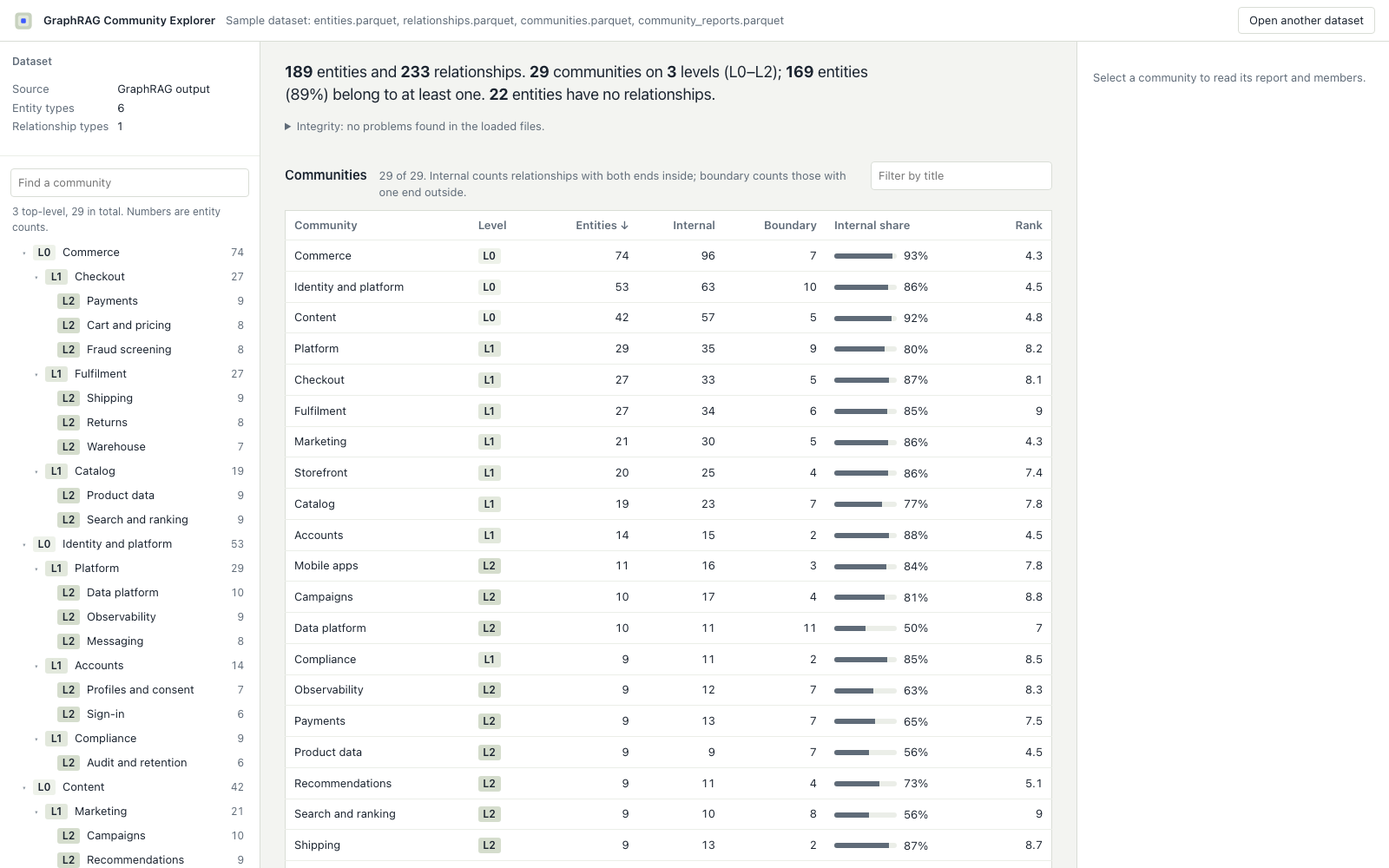
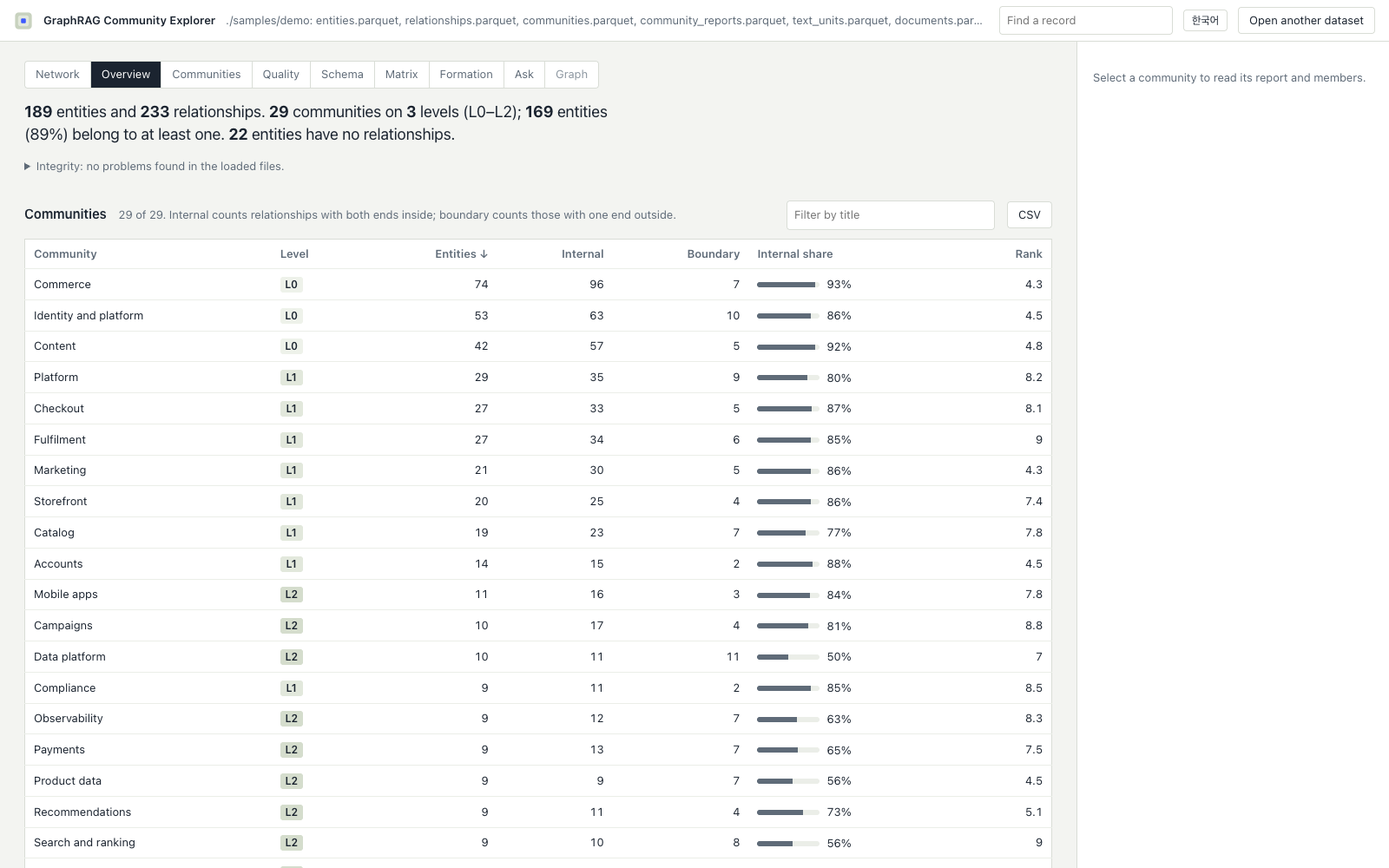
docs: README 를 질문 탭까지 포함한 현재 화면으로 갱신한다
캡처 여섯 장을 지금 빌드에서 다시 찍었다. 스키마·전체 그래프·질문·근거·개요·
커뮤니티 순이며, 질문 두 장은 표본 색인에 embed_index 로 만든 사이드카를 붙여
실제 Local 검색을 돌린 화면이다. 사이드카는 3MB 라 저장소에 넣지 않았다.

README 가 사실과 어긋나던 곳을 고쳤다. 앱은 Network 가 아니라 Schema 로 열리고,
질문 탭·임베딩 사이드카·제공자 설정은 아예 적혀 있지 않았다. 브라우저에서
Leiden 을 돌리는 일은 이미 형성 과정 화면이 하므로 로드맵의 범위 밖 항목에서 뺐다.

Claude-Session: https://claude.ai/code/session_013XUVMGcnLhDkgM8zBvsfqY

diff --git a/README.md b/README.md
@@ -1,19 +1,27 @@
 # GraphRAG Community Explorer
 
 Community-first explorer for [Microsoft GraphRAG](https://github.com/microsoft/graphrag) outputs.
-Open the Parquet files GraphRAG writes, read the community hierarchy and reports first, then descend
-into the entities and relationships inside each community. Everything runs in your browser; no file
-is uploaded anywhere.
+Open the Parquet files GraphRAG writes, read the schema and the community hierarchy first, then
+descend into the entities and relationships inside each community, and ask a question whose answer
+links back to the records it used. Browsing runs entirely in your browser; no file is uploaded
+anywhere. Asking a question is the one exception, and the app says so on the screen where it happens.
 
-Status: 0.1 alpha. Loader, overview, hierarchy tree, community table, report inspector, integrity
-checks, community graph, community map, quality metrics, partition comparison and source-text
-evidence are in place; see [docs/ROADMAP.md](docs/ROADMAP.md) for what comes next.
+Status: 0.2, alpha. Loader, schema view, network view, community hierarchy and map, report
+inspector, integrity checks, quality metrics, partition comparison, source-text evidence and the
+Ask tab (local and global search against your own provider) are in place; see
+[docs/ROADMAP.md](docs/ROADMAP.md) for what comes next.
 
-![Overview of the sample dataset: hierarchy tree, summary sentence, community table](docs/screenshots/overview-sample.png)
+![The schema of the sample index: one node per entity type, one arrow per relationship that occurs between two types, with the Parquet tables and their key columns underneath](docs/screenshots/schema-sample.png)
 
-![Graph of one community: entities colored by type inside the community container, a selected node with its incoming and outgoing links](docs/screenshots/graph-sample.png)
+![The whole sample index as one network with community clouds around the members, every cloud named, and the entity types and communities listed above the canvas](docs/screenshots/network-sample.png)
 
-![Community map: nested containers three levels deep, opened down to the entities of one topic, with aggregate links between groups](docs/screenshots/map-sample.png)
+![Ask tab: a question about what a queue's removal would affect, answered with inline citations back to entities, relationships, reports and claims](docs/screenshots/ask-sample.png)
+
+![The same answer read backwards: the cited records outlined in red in the evidence graph, the picked record open beside it with the text that went into the prompt, and the retrieved records listed with their scores](docs/screenshots/ask-evidence-sample.png)
+
+![Overview of the sample dataset: counts, integrity check, and a sortable community table with internal and boundary relationship counts](docs/screenshots/overview-sample.png)
+
+![Communities view: one band per level, one circle per community sized by the entities it holds, curves joining each community to its parent, and the entities in no community as grey dots](docs/screenshots/communities-sample.png)
 
 ## Try it
 
@@ -48,6 +56,65 @@ A `Dockerfile` builds a static image served by nginx; mount an index folder unde
 `/usr/share/nginx/html/data/<name>` and open `?data=./data/<name>`. It has not been exercised on a
 machine with Docker yet.
 
+## Ask a question
+
+The **Ask** tab answers from the index you have open, using a model provider you configure. It
+follows GraphRAG's two search methods; the selection and the budgeting are this project's own, so an
+answer here is not guaranteed to match what `graphrag query` returns from the same index.
+
+- **Local** embeds the question, ranks entities by cosine against the entity vectors, and packs the
+  seeds, the relationships between them, the reports of the communities they belong to, the source
+  chunks behind them and the claims about them into a token budget, in that order of priority. It
+  needs an `embeddings.parquet` beside the index.
+- **Global** reads the community reports, splits them into context windows, asks the model for
+  scored points from each window, keeps the best of them and asks once more for the answer. It needs
+  `community_reports.parquet` and no embeddings, which is how GraphRAG's global search works too.
+
+Any OpenAI-compatible endpoint will do. The key lives in your browser's local storage, never in a
+saved run and never in a log line. Presets for Upstage and OpenAI fill in the two model names; the
+embedding model matters, because a question embedded with a different model than the sidecar was
+built with ranks nothing usefully.
+
+To skip typing the settings in every browser, copy `.env.example` to `.env.development.local` and
+set `VITE_LLM_BASE_URL`, `VITE_LLM_CHAT_MODEL`, `VITE_LLM_EMBED_MODEL` and, if you accept the
+consequence, `VITE_LLM_API_KEY`. Vite inlines those into the bundle, so `npm run build` refuses to
+publish a key unless `ALLOW_EMBEDDED_KEY=1` says it may. Anything typed in the app wins over the
+environment.
+
+Local search needs entity vectors, which GraphRAG writes to a vector store rather than to Parquet.
+`tools/embed_index` builds the sidecar the browser can read:
+
+```sh
+EMBED_API_KEY=… python3 tools/embed_index/embed_index.py --index ~/graphrag/output
+```
+
+It writes `embeddings.parquet` next to the index: one row per entity, the vector as fixed-length
+binary, and the model, the dimension and a SHA-256 of every source file in the file's metadata. The
+app checks those fingerprints and turns local search off, saying which file changed, when the
+sidecar was made from a different index.
+
+What comes back is meant to be checked rather than believed:
+
+- Every citation in the answer is a button. Picking one reads that record beside the answer, with
+  the exact text that went into the prompt, the links the run carried and the source text behind it.
+- The evidence graph draws the records that were sent to the model and outlines in red the ones the
+  answer actually cited. A node, a citation and a table row are three views of the same record, and
+  picking any of them reads it in place. Nothing sends you to another tab.
+- The table under the graph lists everything that was retrieved with its score, so the records the
+  model was given and ignored are as visible as the ones it used.
+- The embedding space plots the question and the entity vectors, reduced with PCA, in two or three
+  dimensions, marking what went into the prompt and what the budget cut. It says on the screen that
+  distance there is not the cosine the search used.
+- **How a question reaches an answer** draws the run itself: retrieval, context window, model call
+  and response, with the counts and milliseconds this run actually spent, and the calls that left
+  the browser bordered in red. **Show the prompt sent to the model** prints the messages verbatim.
+- **Save this run** writes a trace file (question, settings without the key, every context record,
+  the answer and the timings); **Open a trace** reads one back and relinks its citations, so a run
+  can be reviewed on a machine with no key at all.
+
+Example questions are offered from the data itself: entities that are actually reachable, named with
+their schema type, weighted towards the kinds of record people ask impact questions about.
+
 ## What it reads
 
 | File | Used for |
@@ -55,9 +122,10 @@ machine with Docker yet.
 | `entities.parquet` | Entity titles, types, descriptions. Required. |
 | `relationships.parquet` | Edges between entity titles. Required. |
 | `communities.parquet` | Levels, parents, members. Recommended: without it only the entity list and neighbourhood graphs are available (`public/samples/minimal` is such a set). |
-| `community_reports.parquet` | Summaries, findings and ranks. |
+| `community_reports.parquet` | Summaries, findings and ranks. Global search reads these. |
 | `text_units.parquet`, `documents.parquet` | Source chunks and documents; the inspector shows the text behind an entity, relationship or community. |
-| `covariates.parquet` | Claims about entities, listed on the entity panel. |
+| `covariates.parquet` | Claims about entities, listed on the entity panel and offered to local search. |
+| `embeddings.parquet` | Optional sidecar of entity vectors written by `tools/embed_index`. Local search and the embedding space need it; nothing else does. |
 | `<label>_communities.parquet` | Any additional community set (for example `leiden_communities.parquet`) becomes a switchable partition. |
 
 Levels are shown from the root down: the root reads L0 and children count up, which is GraphRAG's
@@ -79,94 +147,71 @@ each take about half a second (`samples/generate_sample.py --scale 53 --edge-fac
 
 ## What you see
 
+The app opens on the **Schema**: one node per entity type, one arrow per relationship that occurs
+between two types, both with counts, and under it the Parquet tables with their key and reference
+columns. Nothing declares this shape; it is counted from the rows. Picking a type or an arrow lists
+the records behind it and carries over into the network as a filter you can clear.
+
 Not every relationship is worth drawing as arrows. A triple that joins most of its possible pairs,
 such as a permission block, is a hairball under any layout, and one that hangs everything off a few
 hubs is really a list of counts. The schema view measures both and sends you to the form that reads:
 a grid for a dense pair, counts per hub for a star, arrows for the rest.
 
-Clicking a record centres the graph on it and abstracts the rest. A few neighbours of each kind are
-drawn with their names, everything else becomes a dashed bubble carrying a count, and a second ring
-shows what those neighbours reach in turn: two names and one count each. A role with 274 neighbours
-reads as twenty nodes. A bubble opens on click.
+The **Network** draws the records themselves: every entity and relationship on one canvas, with node
+colour for the entity type and size for the degree. Communities are an overlay you add, as clouds
+around their members or as node colour, and they can be taken away again. Turning the overlay on
+takes you to the free layout, which keeps each community together already, so the hulls appear
+around what is on screen instead of rearranging it; switching it off again moves nothing.
 
-Opening a type in the schema names its two busiest records and keeps the rest as one bubble with a
-count, which opens on click. Nothing anywhere asks you to choose a number of nodes: one switch says
-part of the data or all of it, and part always means a couple of representatives plus a count.
-
-The **Communities** view opens on every community at once: one band per level from the root down,
-one circle per community sized by the entities it holds, and a curve from each community to its
-parent. Entities that no community claims are drawn as grey dots under the bands and can be switched
-off. The nested box map, where a community opens into its members, is one switch away.
-
-Clicking inside a community reads it on the right: its summary, its level, how much of its edge
-weight stays inside, its children and its members. Dragging it moves the whole group, and
-double-clicking opens its own graph.
-
-Turning the community overlay on takes you to the free layout, which keeps each community together
-already, so the hulls appear around what is on screen instead of rearranging it. Switching the
-overlay off again moves nothing. A tidier catalogue, one disc per community laid out in rows with a
-guaranteed gap, is there as its own arrangement when that is what is wanted.
-
-The free layout keeps each community together: a community is a
-container the layout must not scatter, and a link that leaves one is given a long ideal length while
-links inside it stay short. The clouds then come out as separate petals rather than one smear.
+The free layout treats a community as a container the layout must not scatter, and gives a link that
+leaves one a long ideal length while links inside it stay short. The clouds then come out as
+separate petals rather than one smear. A tidier catalogue, one disc per community laid out in rows
+with a guaranteed gap, is there as its own arrangement when that is what is wanted.
 
 Names appear as there is room for them. On every pan and zoom the visible nodes are measured in
 screen pixels and the best are named first, so a crowded picture names its hubs and the members of a
 community, and zooming in reveals the rest instead of piling text on text. Zooming spreads the graph
-out rather than magnifying it: dots and names hold their size on screen.
-
-Every node carries its entity type under its name, and the community it belongs to once the
-community overlay is on.
-
-Three pictures answer three different questions, and they are wired to each other.
-
-1. **Schema** draws the shape of the index: one node per entity type, one arrow per relationship
-   that occurs between two types, both with counts. Nothing declares this shape; it is counted from
-   the rows. Picking a type or an arrow lists the records behind it.
-2. **Network** draws those records. A type or triple picked in the schema carries over as a filter,
-   shown as a chip you can clear.
-3. **Formation** runs Leiden on whatever is on screen and plays the communities back as they form,
-   naming the entities that end up together at each step.
-
-The app opens on the **Network** view: every entity and relationship on one canvas, with no
-communities involved. Node colour is the entity type and size is the degree. Communities are an
-overlay you add, as clouds around their members or as node colour, and they can be taken away again.
-
-Every cloud carries its community's name at a fixed size on screen, so the graph says what it is
-made of whether it is zoomed right out or right in. Where two names would land on top of each other
-the smaller community gives way and gets its name back as you zoom in; every community is also
-listed under the canvas with the colour it was drawn in, so no name is ever out of reach. Clicking
-a cloud reads that community in the inspector and dragging one pulls it aside. Links take no clicks:
-a community is mostly the links between its members, so a clickable link would leave the community
-unclickable over most of its area. Links are read from the inspector, which lists them by name.
+out rather than magnifying it: dots and names hold their size on screen. Every cloud carries its
+community's name at a fixed size, and where two names would land on top of each other the smaller
+community gives way and gets its name back as you zoom in; every community is also listed under the
+canvas with the colour it was drawn in, so no name is ever out of reach.
 
 Clicking a record reads it where it stands. The graph stays exactly as it was; two hops around the
 record light up, everything else fades to a ghost rather than disappearing, and the record and its
 two rings hold a size on screen so they can be found with the whole graph in view. Double-clicking
-is the deliberate step that redraws the picture around that one record, with a few of its
-neighbours named and the rest counted.
+is the deliberate step that redraws the picture around that one record: a few neighbours of each
+kind are drawn with their names, everything else becomes a dashed bubble carrying a count, and a
+second ring shows what those neighbours reach in turn. A role with 274 neighbours reads as twenty
+nodes, and a bubble opens on click. Nothing anywhere asks you to choose a number of nodes: one
+switch says part of the data or all of it, and part always means a couple of representatives plus a
+count.
 
 A type bubble is sized by how many records it stands for, so one type can be many times the width
 of its neighbours and a force layout will drop the small ones inside the large one. Whatever the
 layout decides, the picture is settled afterwards: overlapping bubbles are pushed apart until none
 of them touch, names included, and the view is fitted again so nothing hangs over the edge. Parting
 them changes the fit, which changes how large the names are on screen and so how much room they
-need, so the three settle together over a few rounds. Every type is named at every zoom; the type
-bubbles are the frame the data hangs on and the picture says nothing without them.
+need, so the three settle together over a few rounds.
 
 `Arrange: layers` puts one column per entity type and orders the columns so that as many
 relationships as possible run forward, using a greedy feedback arc set. It reports the share that
 made it, and draws the rest dashed red. Long columns wrap into sub-columns so the picture stays
 readable. Both Apache AGE graphs we test with reach 99%.
 
+The **Communities** view opens on every community at once: one band per level from the root down,
+one circle per community sized by the entities it holds, and a curve from each community to its
+parent. Entities that no community claims are drawn as grey dots under the bands and can be switched
+off. The nested box map, where a community opens into its members, is one switch away. Clicking
+inside a community reads it on the right: its summary, its level, how much of its edge weight stays
+inside, its children and its members. Dragging it moves the whole group, and double-clicking opens
+its own graph.
+
 The **Formation** view runs Leiden in the browser on the entities on screen and plays the run back:
 local moving sweep by sweep, refinement, then aggregation, with the graph recolouring as communities
 appear, a modularity curve, the shrinking working graph, and NMI/ARI against the community set the
 index shipped. Resolution, seed and scope are yours to change; the loaded communities never are.
 
-The interface is available in English and Korean; the switch sits in the top bar and the choice is
-remembered in the browser.
+The rest, in short:
 
 - A one-paragraph summary with the counts that matter: entities, relationships, communities, levels,
   coverage, isolated entities.
@@ -195,23 +240,33 @@ remembered in the browser.
   neighbouring community can be added to the same picture. Click a node for its neighbourhood and
   incoming/outgoing links, a link for its description; filter relationship types, search, and drag
   nodes. Layouts are deterministic and survive filtering.
+- PNG export of the graph and the map at 2x, CSV export of the community and quality tables, and a
+  shareable view state in the URL (`#view=map&set=leiden&community=11`).
+
+The interface is available in English and Korean; the switch sits in the top bar and the choice is
+remembered in the browser.
 
 ## Development
 
 ```sh
 npm run typecheck
-npm test             # vitest: loaders, hierarchy, metrics, map model, evidence
+npm test             # vitest: loaders, hierarchy, metrics, map model, evidence, search
 npm run e2e          # Playwright smoke test against the production build (uses installed Chrome)
 npm run build        # vite build, then scripts/check-dist.mjs refuses any dataset but the sample
 npm run hooks        # installs the pre-push check once per clone
 uv run samples/generate_sample.py   # regenerates the synthetic sample
 ```
 
-Two checks keep private data out of the open: `scripts/check-sensitive.sh` runs before every push
-and in CI and refuses data files outside `public/samples/`, environment files and identifiers that
-only occur in private exports; `scripts/check-dist.mjs` runs after every build and fails if `dist/`
-would publish anything but the sample. Real indexes belong in `local-data/`, which Git ignores and
-the build never copies.
+Two checks keep private data and credentials out of the open: `scripts/check-sensitive.sh` runs
+before every push, once `npm run hooks` has installed the hook, and refuses data files outside
+`public/samples/`, environment files and identifiers that only occur in private exports;
+`scripts/check-dist.mjs` runs after every build and fails if `dist/` would publish anything but the
+sample, or an API key inlined from the environment. Real indexes belong in `local-data/`, which Git
+ignores and the build never copies.
+
+Offline tools live in `tools/`: the entity-embedding sidecar (`embed_index`), an Apache AGE Parquet
+export, a Leiden re-clustering run, community summaries for a re-clustered set, and a partition
+comparison. Each has its own README section under [tools/README.md](tools/README.md).
 
 See [CONTRIBUTING.md](CONTRIBUTING.md) for the workflow and [CHANGELOG.md](CHANGELOG.md) for releases.
 
@@ -226,11 +281,14 @@ branch and is not used by the current application.
 
 ## 한국어 안내
 
-GraphRAG 산출물(Parquet)을 커뮤니티 단위로 읽는 뷰어입니다. 계층 트리와 커뮤니티 표, 보고서(요약·발견·순위),
-무결성 검사가 먼저 나오고, 그래프는 선택한 커뮤니티 안에서만 엽니다. 모든 처리는 브라우저 안에서 끝나며 파일은
-어디에도 업로드되지 않습니다.
+GraphRAG 산출물(Parquet)을 커뮤니티 단위로 읽는 뷰어입니다. 스키마와 계층 트리, 커뮤니티 표, 보고서(요약·발견·순위),
+무결성 검사가 먼저 나오고, 그래프는 그 위에서 엽니다. **질문** 탭에서는 열려 있는 색인을 근거로 답을 받고, 답이 인용한
+레코드를 그 자리에서 되짚을 수 있습니다. 탐색은 모두 브라우저 안에서 끝나며 파일은 어디에도 업로드되지 않습니다. 질문만
+예외이고, 그 사실을 질문 화면에 적어 두었습니다.
 
 - 실행: `npm install` 후 `npm run dev`, 그리고 **Open the sample dataset** 또는 GraphRAG `output/` 폴더를 드롭. 상단의 **한국어** 버튼으로 화면 언어를 바꿀 수 있습니다.
 - 로컬 실데이터: `local-data/<이름>/` 에 두고 `?data=./data/<이름>` 으로 엽니다. 이 폴더는 Git 이 무시하고 빌드에도 들어가지 않습니다. `.env.development.local` 에 `VITE_DEFAULT_DATA=./data/<이름>` 을 적으면 시작 시 바로 열립니다.
+- 질문 탭: OpenAI 호환 엔드포인트면 무엇이든 됩니다. 키는 브라우저에만 남고 저장된 실행 기록에는 들어가지 않습니다. `.env.development.local` 의 `VITE_LLM_*` 로 미리 지정할 수 있으며, 키를 넣은 채로 빌드하면 `ALLOW_EMBEDDED_KEY=1` 을 붙이지 않는 한 빌드가 거부합니다.
+- Local 검색은 엔티티 벡터가 필요합니다. `tools/embed_index/embed_index.py --index <색인 경로>` 로 `embeddings.parquet` 을 만들어 색인 옆에 둡니다. Global 검색은 커뮤니티 보고서만 읽으므로 벡터가 필요 없습니다.
 - 추가 커뮤니티 집합: `<라벨>_communities.parquet` 파일을 함께 올리면 상단에서 전환할 수 있습니다.
 - 푸시 전 검사: `npm run hooks` 로 pre-push 훅을 설치하면 실데이터·환경 파일·사내 식별자가 섞인 커밋을 막습니다.

diff --git a/docs/ROADMAP.md b/docs/ROADMAP.md
@@ -23,9 +23,11 @@ are built. Apache AGE is one input adapter among several, not the center of the 
 
 | M5 Usability (done) | Korean/English interface, PNG and CSV export, shareable view URLs, lazy-loaded views, keyboard navigation for tree and tables | Every screen reads in both languages; smoke test covers the switch |
 | M6 Scale and compatibility (done) | 10k-entity synthetic stress set with measured load, graph and map timings; GraphRAG 0.3 `create_final_*` sample tested end to end; covariates (claims) shown; n-hop neighbourhood exploration from any entity | 10k entities load under five seconds, collapsed map under two; 0.3 sample passes the smoke test |
-| M7 Distribution (current) | npm package with a `bin` that serves a built copy next to your index; GitHub releases with notes; Dockerfile for static hosting | `npm pack` contains only dist and bin; a release page exists for each tag |
+| M7 Distribution (done) | npm package with a `bin` that serves a built copy next to your index; GitHub releases with notes; Dockerfile for static hosting | `npm pack` contains only dist and bin; a release page exists for each tag |
+| M8 Ask (current) | Local and global search against an OpenAI-compatible provider; citations that open the record they name; evidence graph, embedding space and a picture of the run itself; saved traces; entity-embedding sidecar tool | A question answered from the shipped sample end to end, with every citation resolving to a record; no key reaches a trace, a log or a build |
 
 ## Out of scope for now
 
-Running Leiden in the browser (offline tools cover it), live database connections, editing
-communities, and hosted multi-user deployments.
+Live database connections, editing communities, and hosted multi-user deployments. DRIFT search,
+dynamic community selection and prompt tuning are deliberately deferred until the two methods that
+exist have been measured on real indexes.

diff --git a/CHANGELOG.md b/CHANGELOG.md
@@ -2,6 +2,22 @@
 
 ## Unreleased
 
+- Ask tab: local and global search against any OpenAI-compatible provider. The key stays in the
+  browser, never in a saved run; `VITE_LLM_*` supplies the defaults and the build refuses to
+  publish an inlined key unless `ALLOW_EMBEDDED_KEY=1`.
+- Every citation in an answer opens the record it names, beside the answer and without leaving the
+  tab. The evidence graph outlines the cited records in red and lists the retrieved ones with their
+  scores, so what the model ignored is as visible as what it used.
+- The embedding space plots the question and the entity vectors (PCA, 2D or 3D), marking what went
+  into the prompt and what the token budget cut.
+- "How a question reaches an answer" draws the run itself with the counts and milliseconds it
+  spent, and "Show the prompt sent to the model" prints the messages verbatim.
+- Runs can be saved as a trace file and read back on a machine with no key.
+- Example questions are derived from the loaded data, named with their schema type.
+- `tools/embed_index` writes the `embeddings.parquet` sidecar local search needs, with the model,
+  the dimension and a SHA-256 of every source file in the file's metadata.
+- The app opens on the schema view: entity types, the relationships between them, and the Parquet
+  tables with their key and reference columns.
 - Browser back and forward move between views and selections; neighbourhood mode is in the URL.
 - Big communities start with their dominant hub relationship type hidden; leaves of one type on
   one hub fold into a single node; dense graphs draw links fainter until one is selected.
